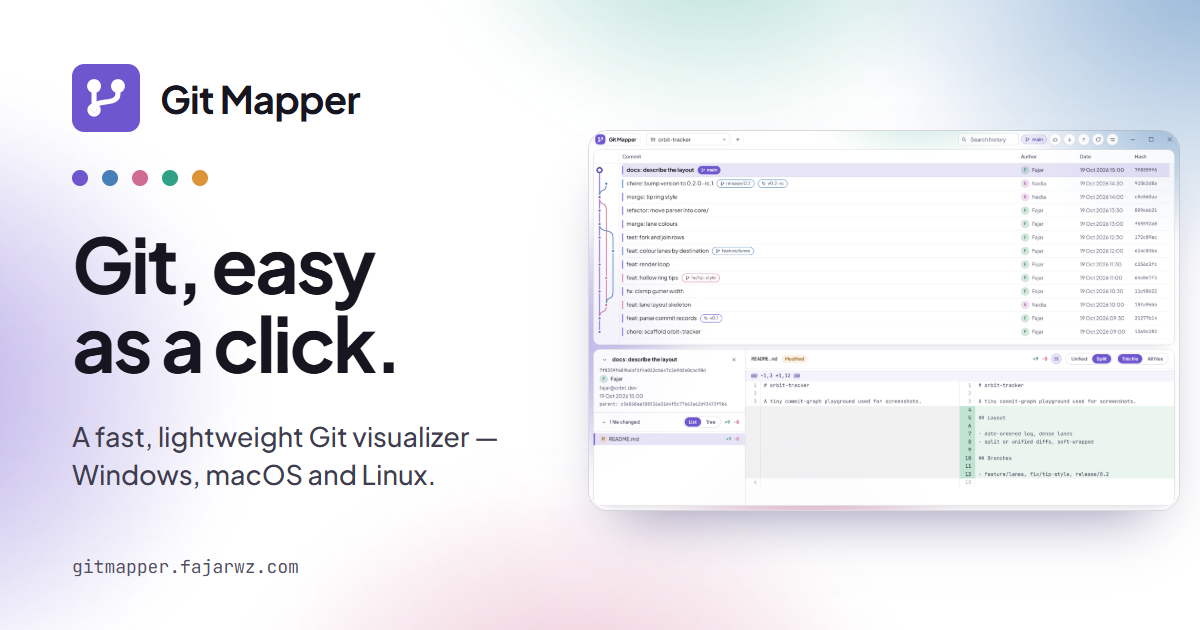
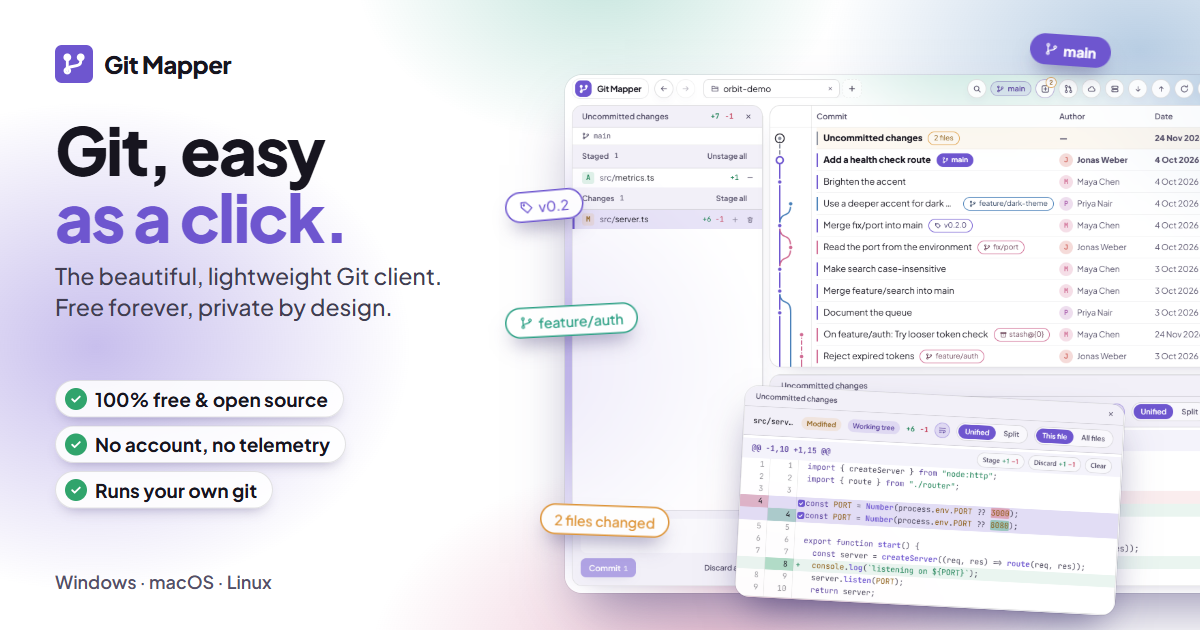
feat(website): floating screenshot hero, theme caption and new social image (#34)
* feat(website): floating screenshot hero, theme caption and new social image

* docs: floating screenshots in the README, and a one-command generator for them

diff --git a/docs/media/floating-screenshot.html b/docs/media/floating-screenshot.html
@@ -1,0 +1,52 @@
+<!doctype html><html><head><meta charset="utf-8"><style>
+@font-face{font-family:PJS;src:url("../../website/public/fonts/plus-jakarta-sans.woff2");font-weight:200 800}
+*{box-sizing:border-box;margin:0}
+body{width:2400px;height:1400px;overflow:hidden;font-family:PJS,sans-serif;color:#17151f;position:relative;
+background:
+radial-gradient(900px 700px at 8% 55%,rgba(110,86,207,.38),transparent 70%),
+radial-gradient(900px 600px at 95% 8%,rgba(71,127,184,.38),transparent 70%),
+radial-gradient(700px 500px at 50% -5%,rgba(47,161,134,.28),transparent 70%),
+radial-gradient(1000px 600px at 60% 105%,rgba(207,106,146,.42),transparent 70%),#fff}
+h1{position:absolute;top:70px;left:0;width:100%;text-align:center;font-size:92px;line-height:1.05;font-weight:800;letter-spacing:-2.5px}
+h1 span{color:#6e56cf}h1 .a,h1 .b{color:#17151f}
+p.sub{position:absolute;top:290px;width:100%;text-align:center;font-size:30px;color:#413d51;font-weight:500}
+.main{position:absolute;left:420px;top:380px;width:1560px;border-radius:34px;box-shadow:0 60px 120px -40px rgba(48,36,100,.55),0 0 0 1.5px rgba(23,21,31,.1)}
+.card{position:absolute;overflow:hidden;background:#fff;box-shadow:0 40px 80px -24px rgba(48,36,100,.6),0 0 0 1.5px rgba(23,21,31,.12)}
+.hunk{left:1560px;top:820px;width:760px;height:422px;border-radius:28px;transform:rotate(3deg)}
+.hunk img{position:absolute;width:1159px;left:-387px;top:-596px}
+.menu{left:60px;top:600px;width:405px;height:662px;border-radius:26px;transform:rotate(-4deg)}
+.menu img{position:absolute;width:456px;left:-26px;top:-26px}
+.pill{position:absolute;display:flex;align-items:center;gap:10px;height:62px;padding:0 26px;border-radius:99px;font-size:28px;font-weight:500;background:rgba(255,255,255,.9);backdrop-filter:blur(20px);border:3px solid;box-shadow:0 24px 40px -16px rgba(48,36,100,.5)}
+.pill svg{width:28px;height:28px;fill:none;stroke:currentColor;stroke-width:2;stroke-linecap:round;stroke-linejoin:round}
+.filled{background:#6e56cf;color:#fff;border-color:#6e56cf;font-weight:700}
+.b{display:none}
+.brand,.meta,.sb,.chips{display:none}body.og .sa{display:none}body.og .sb{display:inline}
+body.og{height:1260px}
+body.og h1{top:230px;left:110px;width:1000px;text-align:left;font-size:132px;line-height:1.02;letter-spacing:-4px}
+body.og h1 .a{display:none}body.og h1 .b{display:inline}
+body.og p.sub{display:block;top:520px;left:110px;width:940px;text-align:left;font-size:46px;line-height:1.35;color:#413d51}
+body.og .brand{display:flex;position:absolute;left:110px;top:90px;align-items:center;gap:22px;font-size:48px;font-weight:800;letter-spacing:-1px}
+body.og .brand img{width:76px;height:76px}
+body.og .chips{display:flex;flex-direction:column;align-items:flex-start;gap:16px;position:absolute;left:110px;top:760px}body.og .chips span{display:flex;align-items:center;gap:16px;padding:12px 30px 12px 18px;border-radius:99px;background:rgba(255,255,255,.88);border:2px solid rgba(23,21,31,.12);box-shadow:0 14px 28px -16px rgba(48,36,100,.45);font-size:38px;font-weight:700}body.og .chips svg{width:44px;height:44px;padding:9px;border-radius:50%;background:#30a46c;fill:none;stroke:#fff;stroke-width:3.4;stroke-linecap:round;stroke-linejoin:round}body.og .meta{display:block;position:absolute;left:110px;top:1140px;font-size:36px;font-weight:600;color:#544f68}
+body.og .menu{display:none}
+body.og .main{left:1130px;top:150px;width:1500px;margin:0}
+body.og .hunk{left:1480px;top:790px;margin:0}
+body.og .pill{margin:0}
+body.og .p-main{left:2060px!important;top:70px!important}
+body.og .p-auth{left:1010px!important;top:610px!important}
+body.og .p-files{left:1080px!important;top:1010px!important}
+body.og .p-tag{left:1010px!important;top:380px!important}
+body.clear{background:none}body.bare{height:1070px}body.bare h1,body.bare p.sub{display:none}body.bare .main,body.bare .card,body.bare .pill{margin-top:-330px}</style><script>addEventListener("DOMContentLoaded",()=>{const h=location.hash;if(h.includes("og"))document.body.classList.add("og");if(h.includes("bare"))document.body.classList.add("bare");if(h.includes("clear"))document.documentElement.style.background="transparent",document.body.classList.add("clear")})</script></head><body>
+<h1><span class="a">Your whole Git history,<br><span>one calm graph.</span></span><span class="b">Git, easy<br><span>as a click.</span></span></h1>
+<div class="brand"><img src="../assets/logo.svg" alt="">Git Mapper</div>
+<div class="chips"><span><svg viewBox="0 0 24 24"><path d="M5 12.5l4.5 4.5L19 7.5"/></svg>100% free &amp; open source</span><span><svg viewBox="0 0 24 24"><path d="M5 12.5l4.5 4.5L19 7.5"/></svg>No account, no telemetry</span><span><svg viewBox="0 0 24 24"><path d="M5 12.5l4.5 4.5L19 7.5"/></svg>Runs your own git</span></div>
+<div class="meta">Windows · macOS · Linux</div>
+<p class="sub"><span class="sa">Browse branches, stage hunks and review diffs without leaving the canvas.</span><span class="sb">The beautiful, lightweight Git client.<br>Free forever, private by design.</span></p>
+<img class="main" src="sources/stage.png">
+<div class="card hunk"><img src="sources/hunk-full.png"></div>
+<div class="card menu"><img src="sources/menu.png"></div>
+<div class="pill filled p-main" style="left:2020px;top:400px;transform:rotate(4deg)"><svg viewBox="0 0 24 24"><circle cx="6" cy="5" r="2"/><circle cx="6" cy="19" r="2"/><circle cx="18" cy="8" r="2"/><path d="M6 7v10M18 10c0 5-12 2-12 7"/></svg>main</div>
+<div class="pill p-auth" style="left:1960px;top:530px;color:#2fa186;border-color:#2fa186;transform:rotate(-3deg)"><svg viewBox="0 0 24 24"><circle cx="6" cy="5" r="2"/><circle cx="6" cy="19" r="2"/><circle cx="18" cy="8" r="2"/><path d="M6 7v10M18 10c0 5-12 2-12 7"/></svg>feature/auth</div>
+<div class="pill p-files" style="left:1900px;top:640px;color:#dd9438;border-color:#dd9438;transform:rotate(2deg)">2 files changed</div>
+<div class="pill p-tag" style="left:40px;top:480px;color:#6e56cf;border-color:#6e56cf;transform:rotate(-5deg)"><svg viewBox="0 0 24 24"><path d="M3 12V4h8l10 10-8 8z"/><circle cx="7.5" cy="8.5" r="1"/></svg>v0.2</div>
+</body></html>

diff --git a/docs/media-images.md b/docs/media-images.md
@@ -1,0 +1,28 @@
+# Marketing images (`docs/media/`)
+
+The floating-component screenshots (website hero, README header, social preview) are generated, never
+edited by hand. One command retakes the app screenshots and rebuilds every output:
+
+```
+cd video
+npm run shots            # capture from the real app, then render everything
+npm run shots -- render  # skip the capture, re-render from docs/media/sources
+```
+
+Needs Edge or Chrome and `ffmpeg` on PATH; starts `npm run dev` itself when :1420 is free and stops it after.
+
+| Output | Used by |
+| --- | --- |
+| `website/public/screens/hero-floating.webp` (transparent) | website hero, `index.astro` |
+| `website/public/screens/og-image.png` (1200×630) | social preview, `Site.astro` |
+| `docs/media/floating-screenshot-bare.png` | README header |
+| `docs/media/floating-screenshot.png`, `…-transparent.png` | spare: with headline / lossless transparent |
+
+- **Pipeline:** `video/scripts/shots.mjs` drives the app against the demo repo from `make-demo-repo.mjs`
+  (light theme, 2× scale) into `docs/media/sources/`, then opens `docs/media/floating-screenshot.html`
+  once per output. The page's URL hash picks the layout: `#full`, `#bare`, `#bare-clear`, `#og`.
+- **Change the look** (headline, pill text, card positions) in `floating-screenshot.html`, then run
+  `npm run shots -- render`. **Change what the app shows** by editing the capture steps in `shots.mjs`.
+- **Re-run after any visible UI change**, or the images drift from the app. The capture finds elements by
+  accessible name (`Stage metrics.ts`, `Pick…`, the context menu), so a renamed control fails the run loudly.
+- The captures show the repo name `orbit-demo` and its demo commits; that is expected.

diff --git a/README.md b/README.md
@@ -28,6 +28,8 @@ commit and merge with a click. No account, no setup.
 ![TypeScript](https://img.shields.io/badge/TypeScript-6-3178C6?labelColor=17151f&logo=typescript&logoColor=white)
 ![Tailwind CSS](https://img.shields.io/badge/Tailwind_CSS-4-06B6D4?labelColor=17151f&logo=tailwindcss&logoColor=06B6D4)
 
+<img src="docs/media/floating-screenshot-bare.png" alt="Git Mapper: the commit graph, staging view, branch menu and line-by-line diff" width="100%">
+
 </div>
 
 ## Download
@@ -41,8 +43,6 @@ Grab the latest installer from [the releases page](https://github.com/fajarwz/gi
 | Linux | [`Git.Mapper_amd64.AppImage`](https://github.com/fajarwz/git-mapper/releases/latest/download/Git.Mapper_amd64.AppImage) (runs without installing) |
 
 The links above always resolve to the newest release.
-
-<img src="docs/assets/screenshot.png" alt="Commit list, light theme" width="100%">
 
 ## Features
 

diff --git a/AGENTS.md b/AGENTS.md
@@ -14,6 +14,7 @@ Standalone Git history viewer for Windows, macOS and Linux (Tauri 2 + React 19 +
 | Things that have bitten before | [docs/known-pitfalls.md](docs/known-pitfalls.md) |
 | Shipping a release | [docs/releasing.md](docs/releasing.md) |
 | The landing site in `website/` | [docs/website.md](docs/website.md) |
+| Hero, README and social preview images | [docs/media-images.md](docs/media-images.md) |
 
 Product and design context for the UI: [PRODUCT.md](PRODUCT.md) and [DESIGN.md](DESIGN.md).
 
